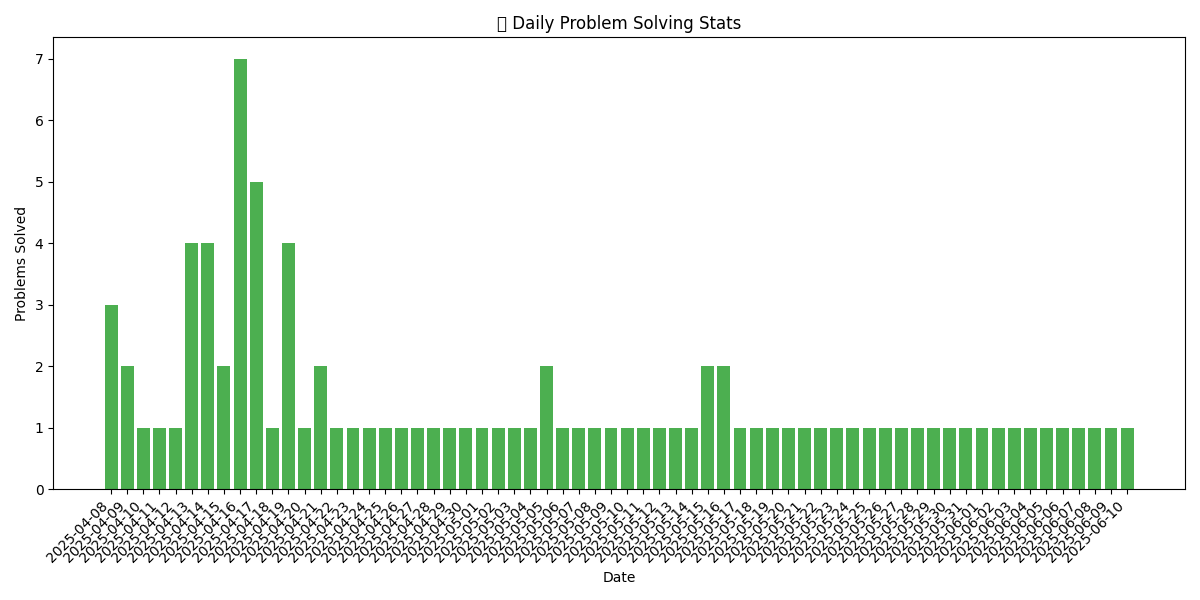
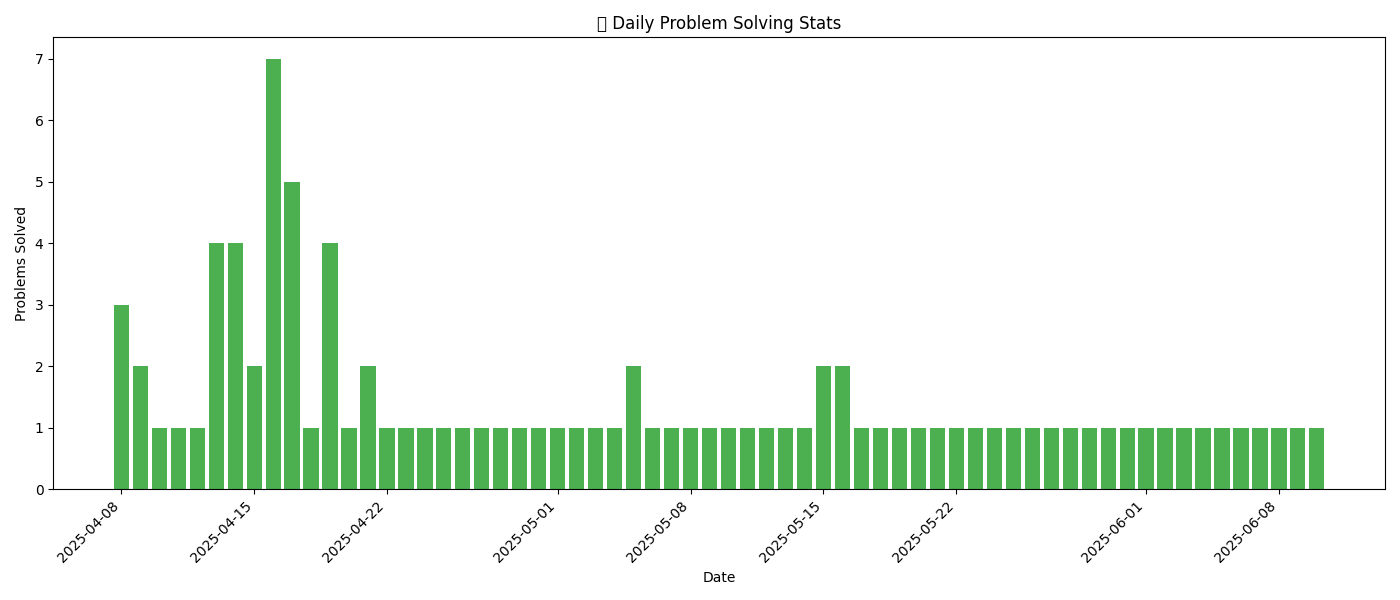
bar chart and heatmap generated

diff --git a/generate_chart.py b/generate_chart.py
@@ -8,9 +8,12 @@ df = pd.read_csv("daily_stats.csv")
 df["Date"] = pd.to_datetime(df["Date"])
 df = df.sort_values("Date")
 
+# Fill missing dates with 0
+df = df.set_index("Date").asfreq("D", fill_value=0).reset_index()
+
 # ==== Part 1: Bar Chart ====
-plt.figure(figsize=(12, 6))
-plt.bar(df["Date"].dt.strftime("%Y-%m-%d"), df["Problems_Solved"], color="#4CAF50")
+plt.figure(figsize=(14, 6))
+plt.bar(df["Date"], df["Problems_Solved"], color="#4CAF50")
 plt.xticks(rotation=45, ha="right")
 plt.xlabel("Date")
 plt.ylabel("Problems Solved")
@@ -33,3 +36,19 @@ calplot.calplot(df_heatmap, cmap="YlGn", colorbar=True, suptitle="🗓 Calend
 plt.savefig("assets/calendar_heatmap.png", bbox_inches="tight")
 plt.close()
 print("✅ Calendar heatmap saved as calendar_heatmap.png")
+
+# ==== Optional: Cumulative Progress Chart ====
+df["Cumulative_Solved"] = df["Problems_Solved"].cumsum()
+
+plt.figure(figsize=(12, 5))
+plt.plot(df["Date"], df["Cumulative_Solved"], marker="o", linestyle="-", color="#2196F3")
+plt.title("📈 Cumulative Problems Solved Over Time")
+plt.xlabel("Date")
+plt.ylabel("Total Problems Solved")
+plt.grid(True)
+plt.tight_layout()
+
+# Save cumulative chart
+plt.savefig("assets/cumulative_chart.png")
+plt.close()
+print("✅ Cumulative chart saved as cumulative_chart.png")
